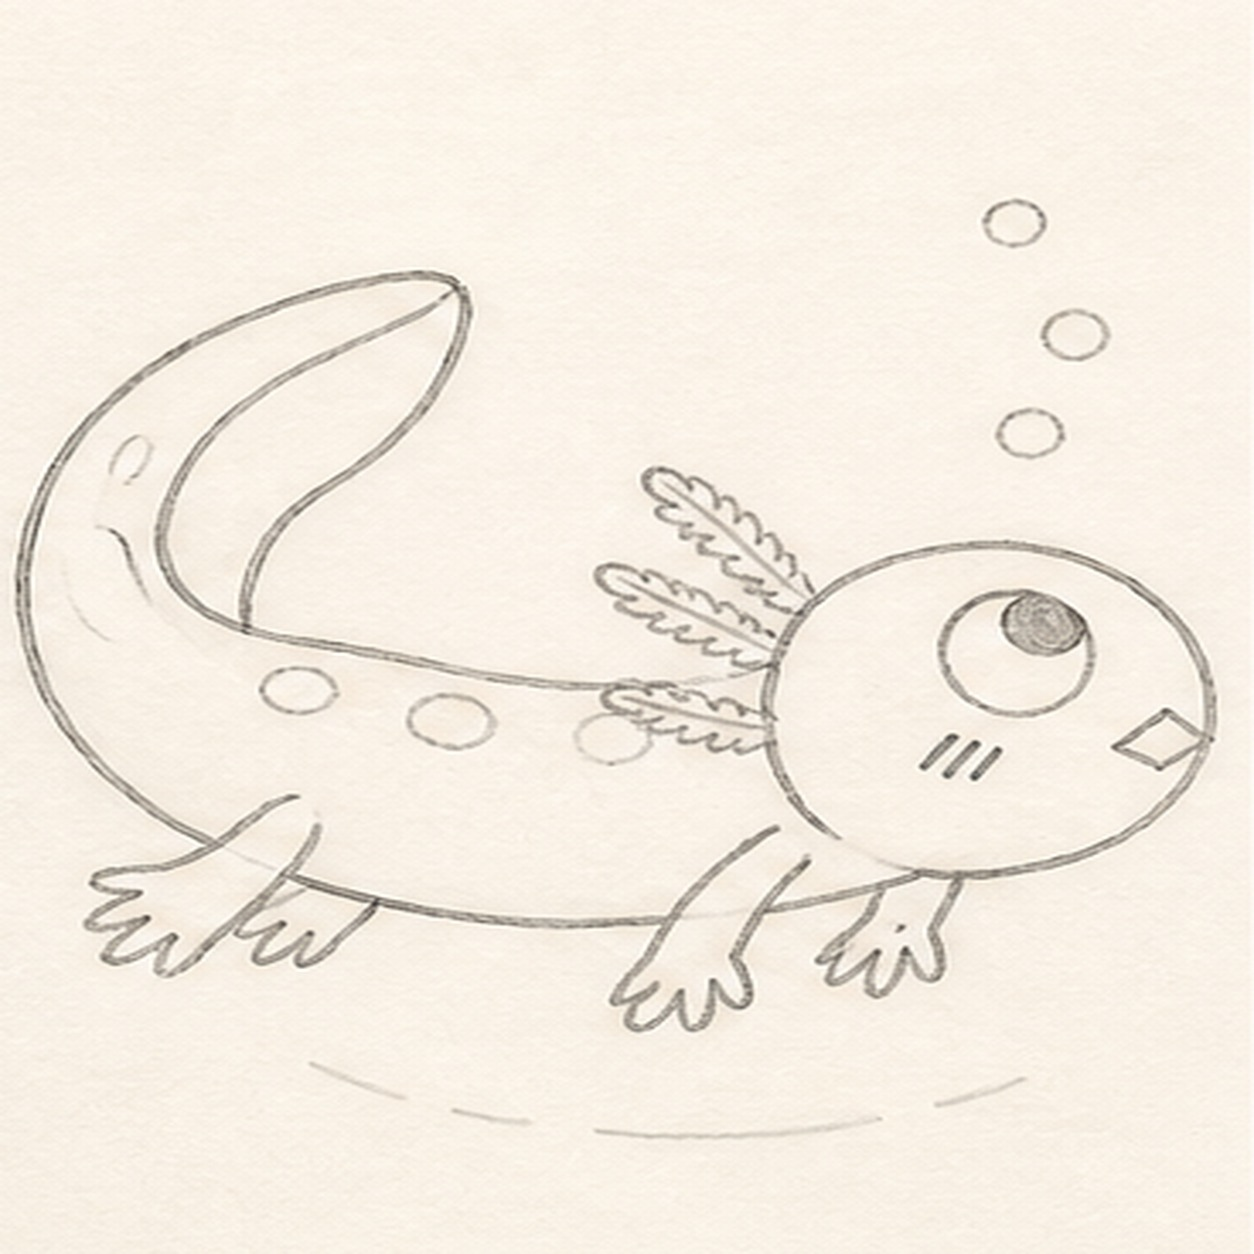
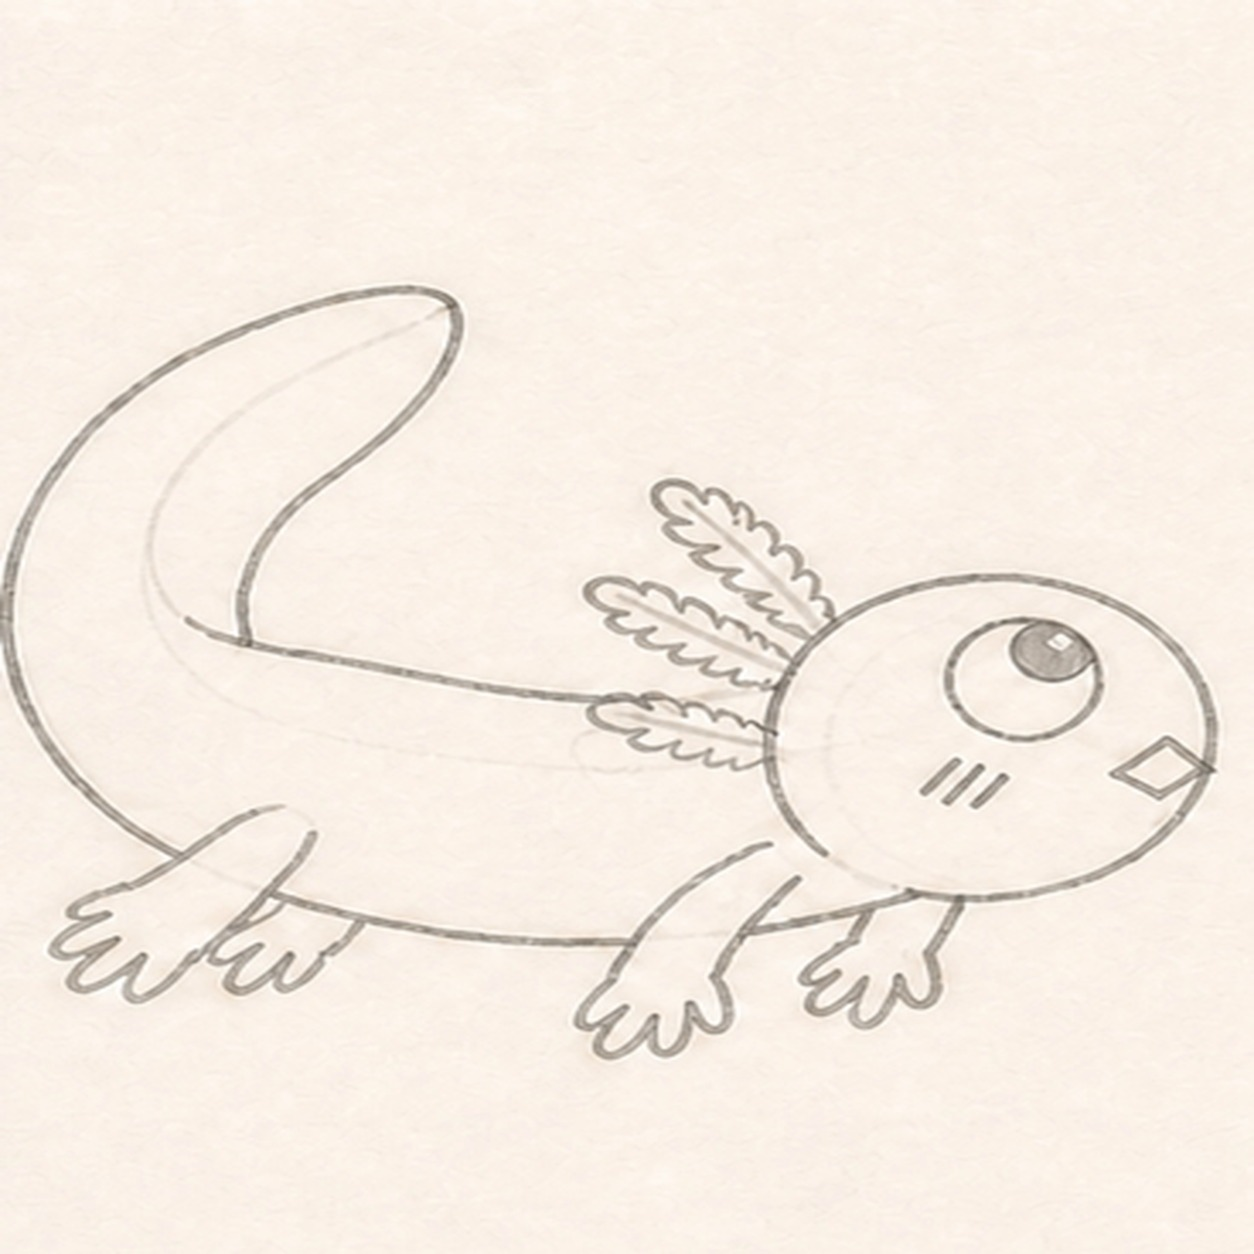
Repair axolotl construction steps

diff --git a/tutorials/cartoon-axolotl-swimming.html b/tutorials/cartoon-axolotl-swimming.html
@@ -88,22 +88,22 @@
         {
           "@type": "HowToStep",
           "name": "Map the swimming curve",
-          "text": "Use pale pencil to place the head and body masses, broad tail-fin curve, exactly four limb routes, three gill routes, the one-eye and diamond-mouth anchors, two spot centers, three bubble centers, two highlight gaps, and one broken water-shadow footprint."
+          "text": "Use pale pencil for one head ellipse, one long body bean, a sweeping C-shaped tail gesture, and a centerline. Add only tiny attachment ticks for the future limbs and gills; leave the face and all accents for later."
         },
         {
           "@type": "HowToStep",
           "name": "Wrap the head body and tail",
-          "text": "Build one loose right-facing axolotl silhouette with a rounded head, tapered body, and broad curling tail fin while preserving every pale limb, gill, face, detail, highlight, and shadow reserve."
+          "text": "Connect the head ellipse, body bean, and tail gesture into one loose right-facing silhouette with a rounded head, tapered body, and broad curling tail fin. Keep the pale masses visible underneath and leave limbs and gills as simple route lines."
         },
         {
           "@type": "HowToStep",
           "name": "Fit the legs and gill fan",
-          "text": "Add exactly four small swimming limbs and exactly three leaf-tipped external gill stalks to their reserved routes without changing the head, body, or tail."
+          "text": "Add rough envelopes for exactly four small swimming limbs and exactly three external gill stalks. Use simple mitten and leaf masses for now; toe splits, feathery edges, and the face still come later."
         },
         {
           "@type": "HowToStep",
           "name": "Give the axolotl a surprised face",
-          "text": "Add one oversized round eye with its pupil high and looking upward, one tiny open diamond mouth, exactly three short cheek hatches, and the established tail-fin seam."
+          "text": "Add one oversized round eye with its pupil high and looking upward, one tiny open diamond mouth, exactly three short cheek hatches, and the tail-fin seam. Split the four mitten ends into toes and feather the same three gill edges."
         },
         {
           "@type": "HowToStep",
@@ -198,7 +198,7 @@
           <p class="hand-note">Grab your stuff</p>
           <h3 id="materials-title">Materials</h3>
           <ul><li><span class="material-icon marker-icon" aria-hidden="true"></span><div><strong>Pencil</strong><small>Whatever you already have</small></div></li><li><span class="material-icon paper-icon" aria-hidden="true"></span><div><strong>Drawing paper</strong><small>Smooth paper helps marker lines</small></div></li><li><span class="material-icon markers-icon" aria-hidden="true"></span><div><strong>Black felt-tip marker</strong><small>Use the listed fill colors</small></div></li><li><span class="material-icon markers-icon" aria-hidden="true"></span><div><strong>Coral-pink, raspberry, deep-navy, and teal markers</strong><small>Use the listed fill colors</small></div></li></ul>
-          <p class="materials-note">Use pale pencil to place the complete head-body-tail curve, four limbs, three gill stalks, one-eye expression, diamond mouth, three cheek hatches, two spots, three bubbles, two highlight gaps, tail seam, and broken water-shadow mark before inking. Let the thick black outline dry, then pull coral strokes along the body and tail while keeping the raspberry, navy, teal, and paper-white areas inside their established boundaries.</p>
+          <p class="materials-note">Build the drawing in separate pencil passes: begin with a head ellipse, body bean, and tail gesture; connect those masses; add the four limb and three gill envelopes; then place the face and secondary accents. Let the thick black outline dry before pulling coral strokes along the body and tail, keeping the raspberry, navy, teal, and paper-white areas inside their established boundaries.</p>
         </aside>
         <ol class="steps">
           <li class="step-card">
@@ -209,8 +209,8 @@
             </div>
             <div class="step-copy">
               <h3>Map the swimming curve</h3>
-              <p>Use pale pencil to place the head and body masses, broad tail-fin curve, exactly four limb routes, three gill routes, the one-eye and diamond-mouth anchors, two spot centers, three bubble centers, two highlight gaps, and one broken water-shadow footprint.</p>
-              <p class="artist-tip"><strong>Marker tip:</strong> Ghost the head-to-tail sweep twice before touching down, then compare the open paper above and below the body. Mark all four limbs and three gills now so later contours can stop at their attachments instead of becoming lines you must erase.</p>
+              <p>Use pale pencil for one head ellipse, one long body bean, a sweeping C-shaped tail gesture, and a centerline. Add only tiny attachment ticks for the future limbs and gills; leave the face and all accents for later.</p>
+              <p class="artist-tip"><strong>Marker tip:</strong> Ghost the head-to-tail sweep twice before touching down, then compare the open paper above and below the three primitive masses. This frame should still look like raw construction, not a faint finished axolotl.</p>
             </div>
           </li>
           <li class="step-card">
@@ -221,8 +221,8 @@
             </div>
             <div class="step-copy">
               <h3>Wrap the head body and tail</h3>
-              <p>Build one loose right-facing axolotl silhouette with a rounded head, tapered body, and broad curling tail fin while preserving every pale limb, gill, face, detail, highlight, and shadow reserve.</p>
-              <p class="artist-tip"><strong>Marker tip:</strong> Pull the belly and back as two relaxed curves, then rotate the page for the broad tail fin. Keep the head wide enough for the single large eye and stop the body contour at every reserved limb route.</p>
+              <p>Connect the head ellipse, body bean, and tail gesture into one loose right-facing silhouette with a rounded head, tapered body, and broad curling tail fin. Keep the pale masses visible underneath and leave limbs and gills as simple route lines.</p>
+              <p class="artist-tip"><strong>Marker tip:</strong> Pull the belly and back as two relaxed curves, then rotate the page for the broad tail fin. Stop the body contour at the small attachment ticks so the next shapes can join without erasing keeper lines.</p>
             </div>
           </li>
           <li class="step-card">
@@ -233,8 +233,8 @@
             </div>
             <div class="step-copy">
               <h3>Fit the legs and gill fan</h3>
-              <p>Add exactly four small swimming limbs and exactly three leaf-tipped external gill stalks to their reserved routes without changing the head, body, or tail.</p>
-              <p class="artist-tip"><strong>Marker tip:</strong> Draw the two smaller far limbs first and let them stop behind the body, then place the two near limbs on top. Fan all three gills from the back of the head with different angles but the same general leaf rhythm.</p>
+              <p>Add rough envelopes for exactly four small swimming limbs and exactly three external gill stalks. Use simple mitten and leaf masses for now; toe splits, feathery edges, and the face still come later.</p>
+              <p class="artist-tip"><strong>Marker tip:</strong> Place the two smaller far limbs first and let them tuck behind the body, then add the two near limbs on top. Fan three plain gill leaves from the back of the head at clearly different angles.</p>
             </div>
           </li>
           <li class="step-card">
@@ -245,8 +245,8 @@
             </div>
             <div class="step-copy">
               <h3>Give the axolotl a surprised face</h3>
-              <p>Add one oversized round eye with its pupil high and looking upward, one tiny open diamond mouth, exactly three short cheek hatches, and the established tail-fin seam.</p>
-              <p class="artist-tip"><strong>Marker tip:</strong> Place the pupil high in the eye before darkening it, then keep the diamond mouth small and off-center. That one-eye upward glance and angular mouth make the expression distinct from the recent two-eye side-eye characters.</p>
+              <p>Add one oversized round eye with its pupil high and looking upward, one tiny open diamond mouth, exactly three short cheek hatches, and the tail-fin seam. Split the four mitten ends into toes and feather the same three gill edges.</p>
+              <p class="artist-tip"><strong>Marker tip:</strong> Place the pupil high in the eye before darkening it, then keep the diamond mouth small and off-center. Refine the appendages you already built without changing their count, position, or overall mass.</p>
             </div>
           </li>
           <li class="step-card">

diff --git a/index.html b/index.html
@@ -96,7 +96,7 @@
           <p class="hand-note">Grab your stuff</p>
           <h3 id="materials-title">Materials</h3>
           <ul><li><span class="material-icon marker-icon" aria-hidden="true"></span><div><strong>Pencil</strong><small>Whatever you already have</small></div></li><li><span class="material-icon paper-icon" aria-hidden="true"></span><div><strong>Drawing paper</strong><small>Smooth paper helps marker lines</small></div></li><li><span class="material-icon markers-icon" aria-hidden="true"></span><div><strong>Black felt-tip marker</strong><small>Use the listed fill colors</small></div></li><li><span class="material-icon markers-icon" aria-hidden="true"></span><div><strong>Coral-pink, raspberry, deep-navy, and teal markers</strong><small>Use the listed fill colors</small></div></li></ul>
-          <p class="materials-note">Use pale pencil to place the complete head-body-tail curve, four limbs, three gill stalks, one-eye expression, diamond mouth, three cheek hatches, two spots, three bubbles, two highlight gaps, tail seam, and broken water-shadow mark before inking. Let the thick black outline dry, then pull coral strokes along the body and tail while keeping the raspberry, navy, teal, and paper-white areas inside their established boundaries.</p>
+          <p class="materials-note">Build the drawing in separate pencil passes: begin with a head ellipse, body bean, and tail gesture; connect those masses; add the four limb and three gill envelopes; then place the face and secondary accents. Let the thick black outline dry before pulling coral strokes along the body and tail, keeping the raspberry, navy, teal, and paper-white areas inside their established boundaries.</p>
         </aside>
         <ol class="steps">
           <li class="step-card">
@@ -107,8 +107,8 @@
             </div>
             <div class="step-copy">
               <h3>Map the swimming curve</h3>
-              <p>Use pale pencil to place the head and body masses, broad tail-fin curve, exactly four limb routes, three gill routes, the one-eye and diamond-mouth anchors, two spot centers, three bubble centers, two highlight gaps, and one broken water-shadow footprint.</p>
-              <p class="artist-tip"><strong>Marker tip:</strong> Ghost the head-to-tail sweep twice before touching down, then compare the open paper above and below the body. Mark all four limbs and three gills now so later contours can stop at their attachments instead of becoming lines you must erase.</p>
+              <p>Use pale pencil for one head ellipse, one long body bean, a sweeping C-shaped tail gesture, and a centerline. Add only tiny attachment ticks for the future limbs and gills; leave the face and all accents for later.</p>
+              <p class="artist-tip"><strong>Marker tip:</strong> Ghost the head-to-tail sweep twice before touching down, then compare the open paper above and below the three primitive masses. This frame should still look like raw construction, not a faint finished axolotl.</p>
             </div>
           </li>
           <li class="step-card">
@@ -119,8 +119,8 @@
             </div>
             <div class="step-copy">
               <h3>Wrap the head body and tail</h3>
-              <p>Build one loose right-facing axolotl silhouette with a rounded head, tapered body, and broad curling tail fin while preserving every pale limb, gill, face, detail, highlight, and shadow reserve.</p>
-              <p class="artist-tip"><strong>Marker tip:</strong> Pull the belly and back as two relaxed curves, then rotate the page for the broad tail fin. Keep the head wide enough for the single large eye and stop the body contour at every reserved limb route.</p>
+              <p>Connect the head ellipse, body bean, and tail gesture into one loose right-facing silhouette with a rounded head, tapered body, and broad curling tail fin. Keep the pale masses visible underneath and leave limbs and gills as simple route lines.</p>
+              <p class="artist-tip"><strong>Marker tip:</strong> Pull the belly and back as two relaxed curves, then rotate the page for the broad tail fin. Stop the body contour at the small attachment ticks so the next shapes can join without erasing keeper lines.</p>
             </div>
           </li>
           <li class="step-card">
@@ -131,8 +131,8 @@
             </div>
             <div class="step-copy">
               <h3>Fit the legs and gill fan</h3>
-              <p>Add exactly four small swimming limbs and exactly three leaf-tipped external gill stalks to their reserved routes without changing the head, body, or tail.</p>
-              <p class="artist-tip"><strong>Marker tip:</strong> Draw the two smaller far limbs first and let them stop behind the body, then place the two near limbs on top. Fan all three gills from the back of the head with different angles but the same general leaf rhythm.</p>
+              <p>Add rough envelopes for exactly four small swimming limbs and exactly three external gill stalks. Use simple mitten and leaf masses for now; toe splits, feathery edges, and the face still come later.</p>
+              <p class="artist-tip"><strong>Marker tip:</strong> Place the two smaller far limbs first and let them tuck behind the body, then add the two near limbs on top. Fan three plain gill leaves from the back of the head at clearly different angles.</p>
             </div>
           </li>
           <li class="step-card">
@@ -143,8 +143,8 @@
             </div>
             <div class="step-copy">
               <h3>Give the axolotl a surprised face</h3>
-              <p>Add one oversized round eye with its pupil high and looking upward, one tiny open diamond mouth, exactly three short cheek hatches, and the established tail-fin seam.</p>
-              <p class="artist-tip"><strong>Marker tip:</strong> Place the pupil high in the eye before darkening it, then keep the diamond mouth small and off-center. That one-eye upward glance and angular mouth make the expression distinct from the recent two-eye side-eye characters.</p>
+              <p>Add one oversized round eye with its pupil high and looking upward, one tiny open diamond mouth, exactly three short cheek hatches, and the tail-fin seam. Split the four mitten ends into toes and feather the same three gill edges.</p>
+              <p class="artist-tip"><strong>Marker tip:</strong> Place the pupil high in the eye before darkening it, then keep the diamond mouth small and off-center. Refine the appendages you already built without changing their count, position, or overall mass.</p>
             </div>
           </li>
           <li class="step-card">

diff --git a/HUMANS.md b/HUMANS.md
@@ -7,6 +7,22 @@
 - Local path: `/Users/mybbor/Library/CloudStorage/Dropbox/websites/doodlea.day`
 - Previous: 2026-08-11 / Codex / Daily sketch and doodle lessons
 
+### 2026-08-12 — Axolotl construction-step correction (Codex)
+- Corrected `cartoon-axolotl-swimming` after owner review found that the first
+  frames front-loaded nearly the full character and mostly changed line
+  darkness. The repaired five-stage pencil sequence now separates primitive
+  head/body/tail masses, connected silhouette, four-limb/three-gill envelopes,
+  face and appendage refinement, then spots/bubbles/highlights/shadow before
+  the existing ink and color passes.
+- The original contact sheet and Step 1-5 JPG masters remain private under
+  `superseded-front-loaded-pencil-panels-v1/`; two rejected repair sheets also
+  remain private because the first had only three limb masses and a premature
+  highlight, while the second still leaked that highlight. Public Steps 6-7
+  and the finished JPG remain byte-identical.
+  This was an explicit correction to the current August 12 / Day 099 lesson,
+  not a second current lesson or routine backfill. The one-current-lesson-per-
+  site cadence remains active.
+
 ### 2026-08-12 — Daily tutorial (Codex)
 - Added one current lesson only: `cartoon-axolotl-swimming` (August 12 / Day
   099). The approved eight-panel handmade raster process keeps one
